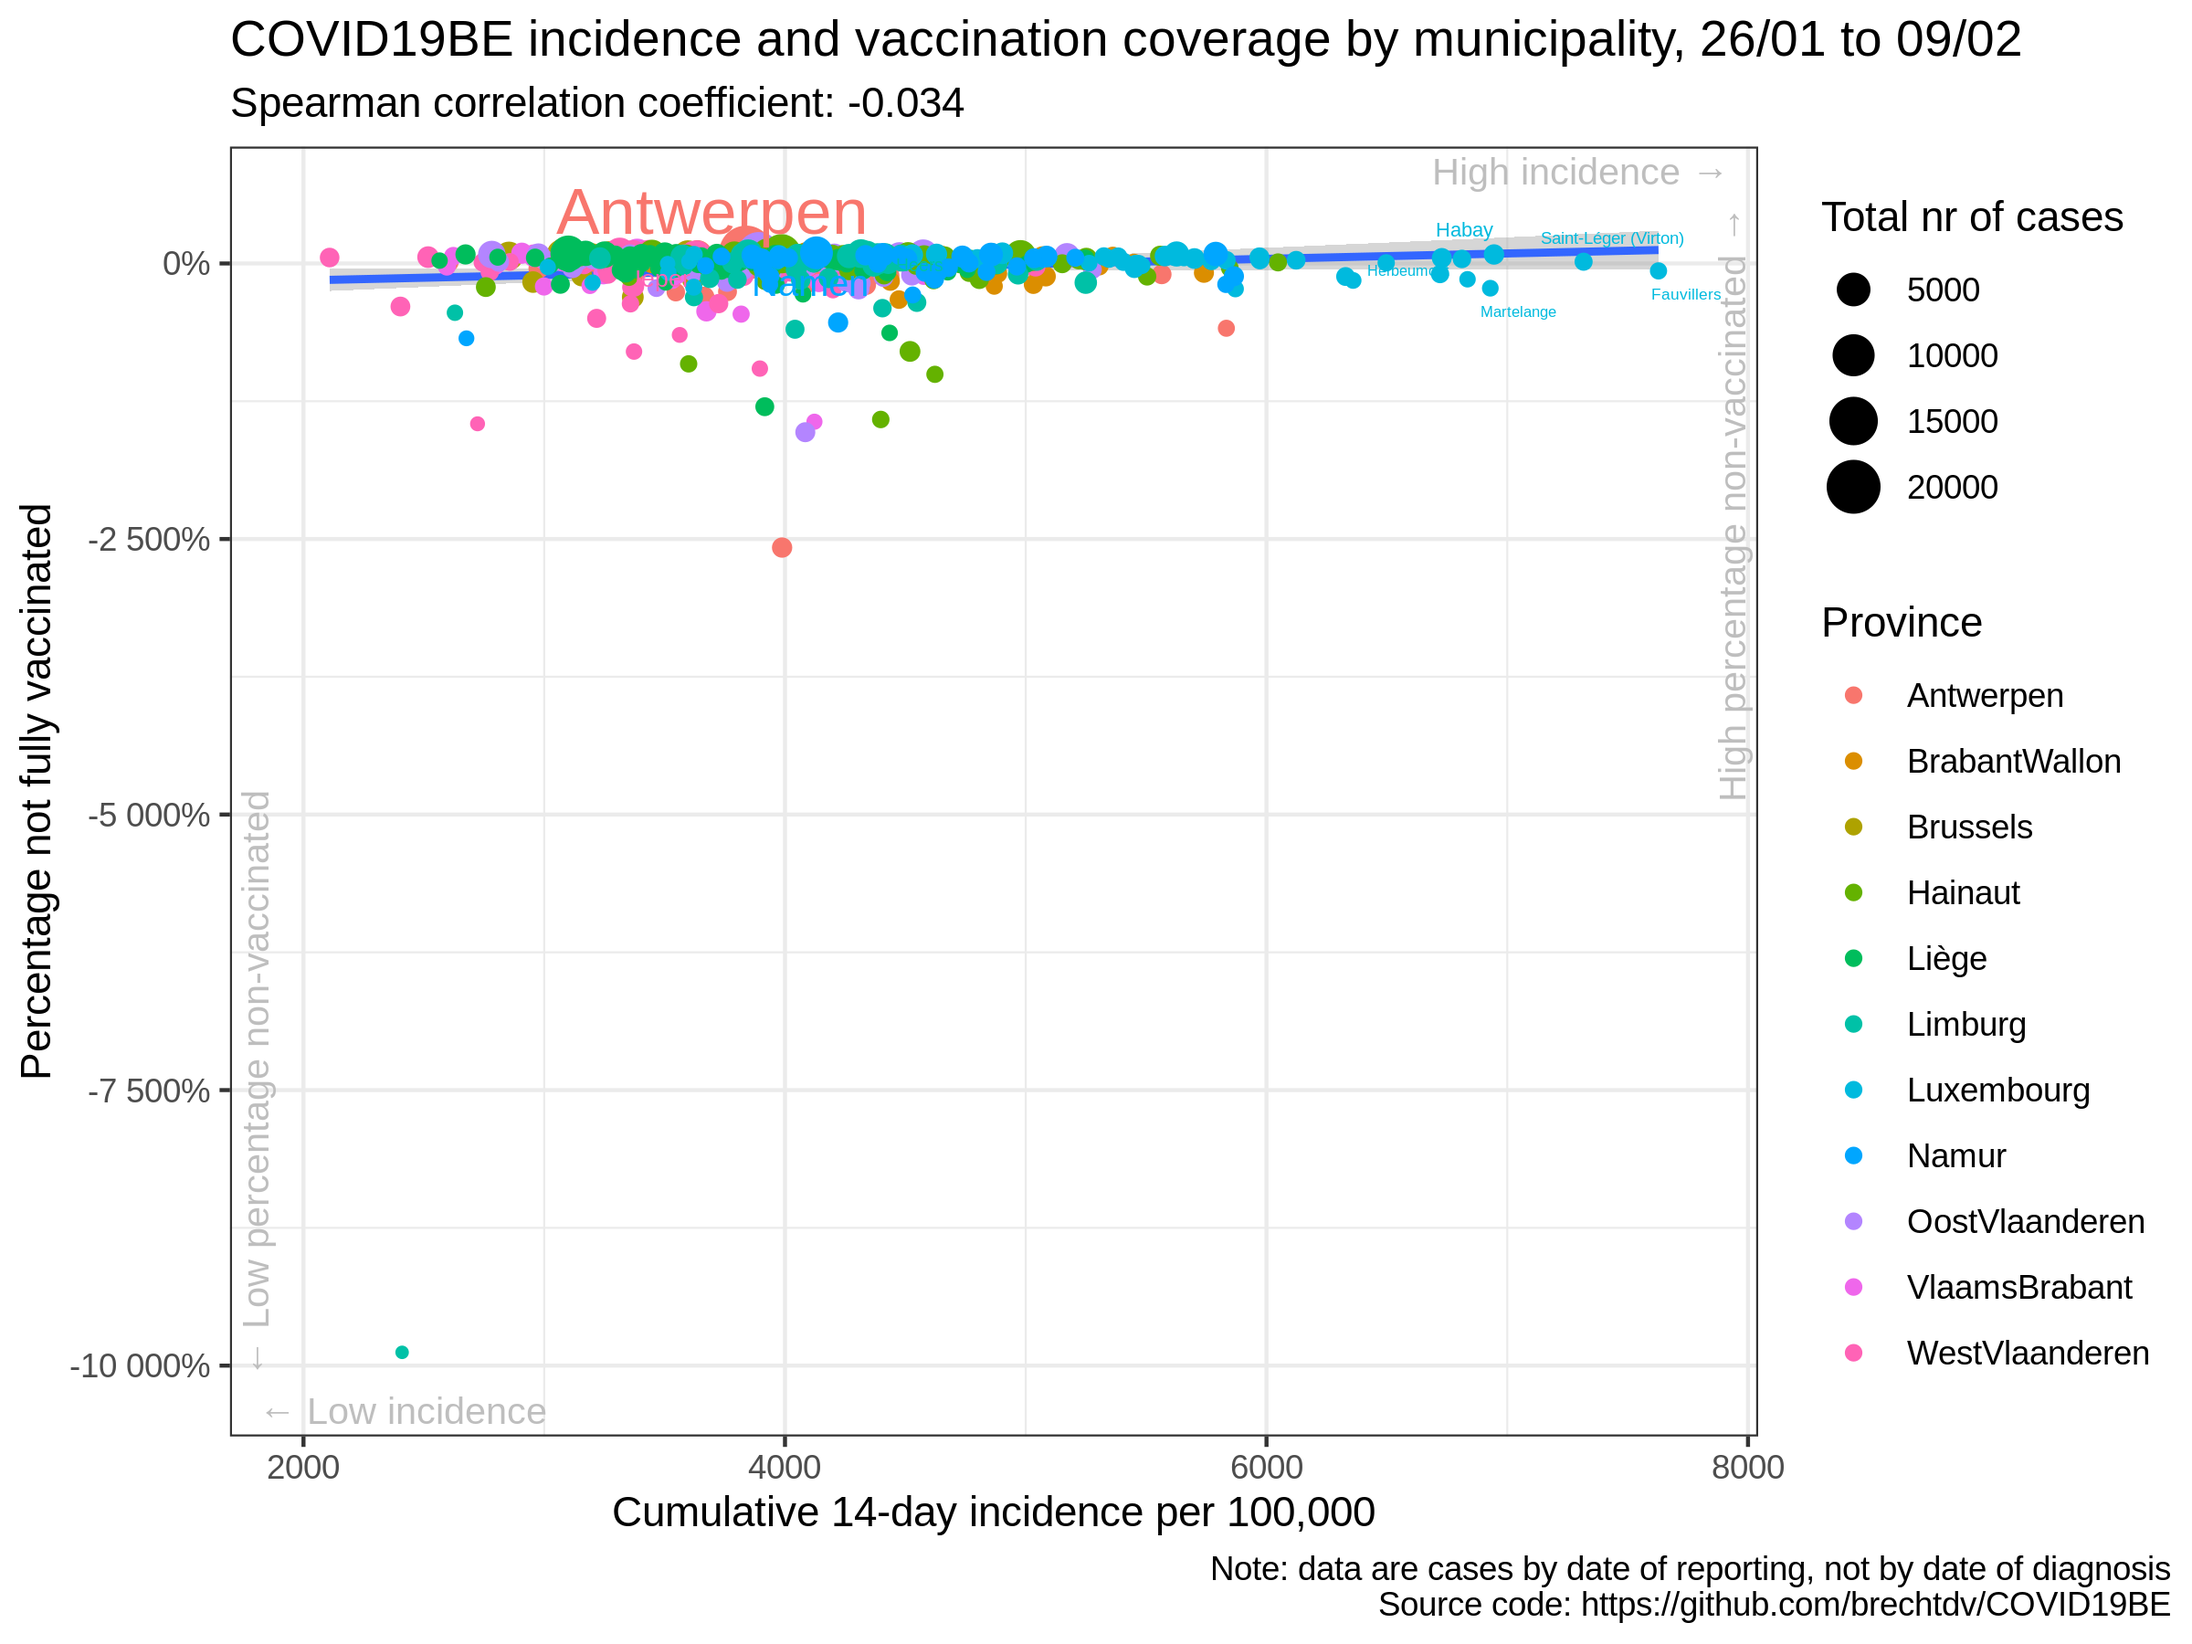
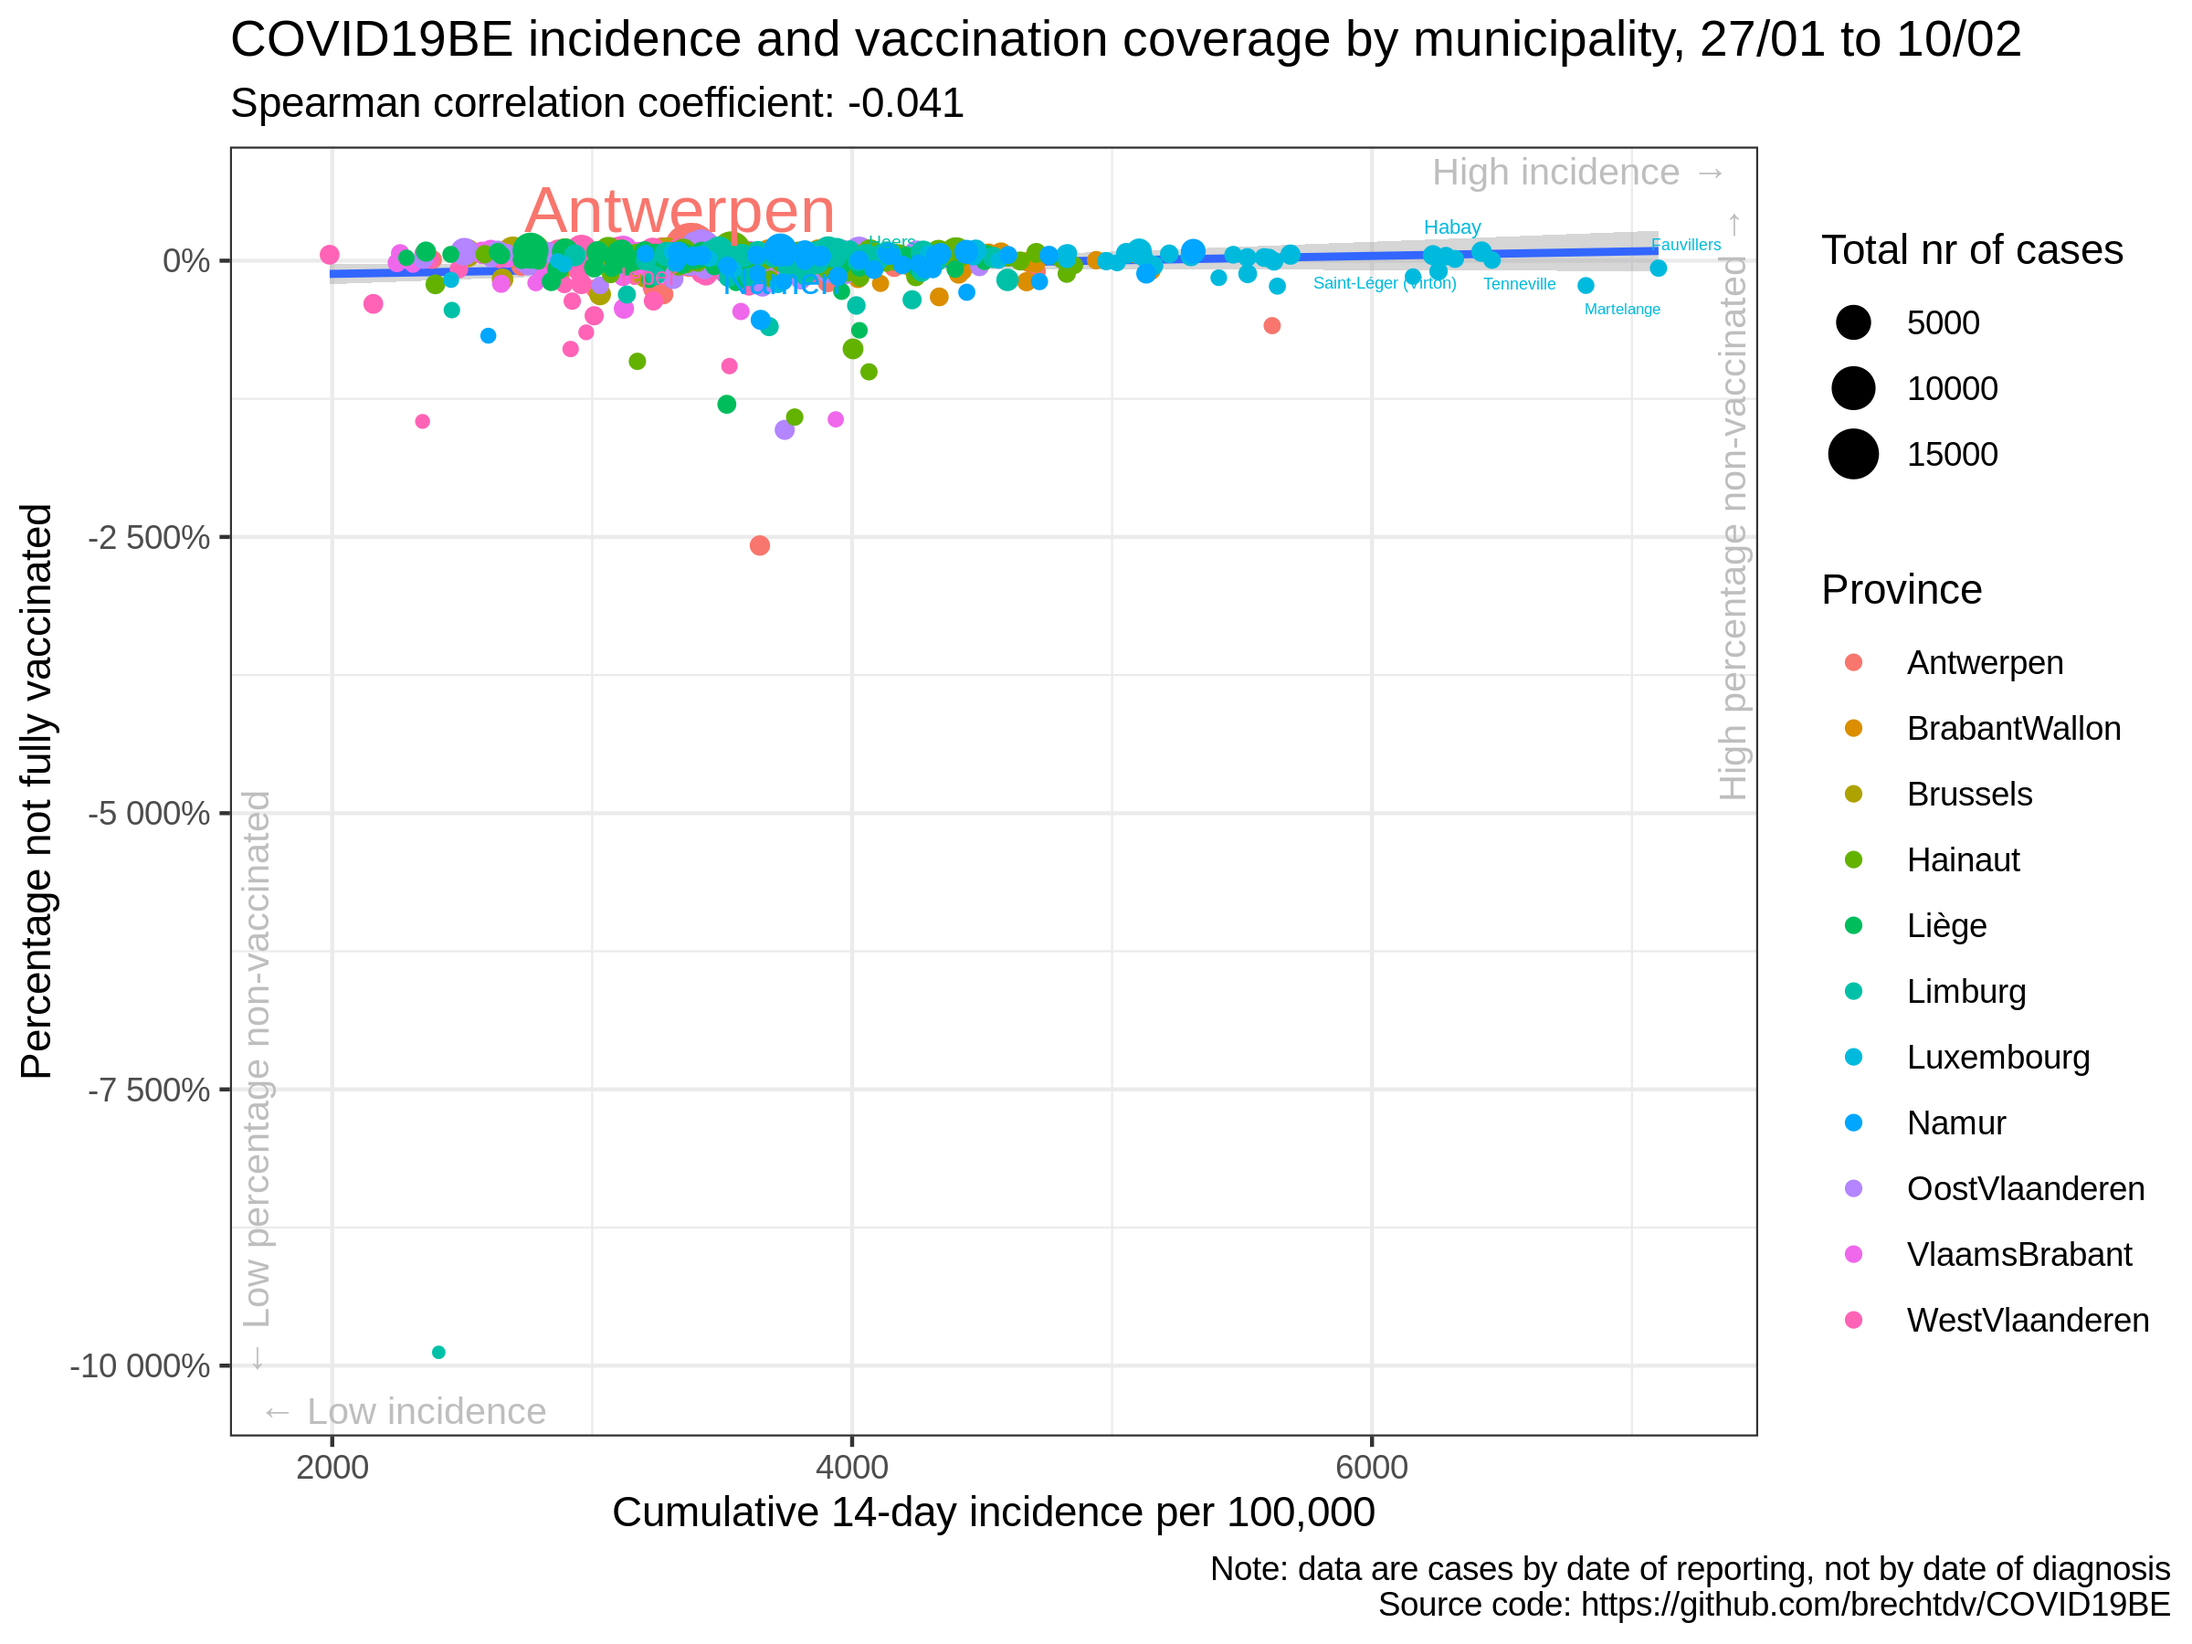
update situation

diff --git a/vaccination/README.md b/vaccination/README.md
@@ -17,35 +17,35 @@
 
 |                | estimate.rho | p.value |
 | :------------- | -----------: | ------: |
-| Antwerpen      |      \-0.089 |   0.466 |
-| BrabantWallon  |      \-0.484 |   0.011 |
-| Brussels       |      \-0.270 |   0.262 |
-| Hainaut        |      \-0.110 |   0.368 |
-| Liège          |      \-0.240 |   0.028 |
-| Limburg        |        0.126 |   0.426 |
-| Luxembourg     |      \-0.170 |   0.270 |
-| Namur          |        0.029 |   0.866 |
-| OostVlaanderen |      \-0.034 |   0.795 |
-| VlaamsBrabant  |      \-0.141 |   0.263 |
-| WestVlaanderen |        0.071 |   0.575 |
-| Belgium        |      \-0.034 |   0.420 |
+| Antwerpen      |      \-0.097 |   0.426 |
+| BrabantWallon  |      \-0.430 |   0.026 |
+| Brussels       |      \-0.223 |   0.358 |
+| Hainaut        |      \-0.068 |   0.578 |
+| Liège          |      \-0.258 |   0.018 |
+| Limburg        |        0.134 |   0.398 |
+| Luxembourg     |      \-0.181 |   0.239 |
+| Namur          |        0.006 |   0.973 |
+| OostVlaanderen |      \-0.020 |   0.878 |
+| VlaamsBrabant  |      \-0.151 |   0.229 |
+| WestVlaanderen |        0.079 |   0.535 |
+| Belgium        |      \-0.041 |   0.326 |
 
 ### Correlation cumulative incidence vs booster rate
 
 |                | estimate.rho | p.value |
 | :------------- | -----------: | ------: |
-| Antwerpen      |      \-0.086 |   0.483 |
-| BrabantWallon  |      \-0.488 |   0.011 |
-| Brussels       |      \-0.296 |   0.217 |
-| Hainaut        |      \-0.105 |   0.388 |
-| Liège          |      \-0.253 |   0.020 |
-| Limburg        |        0.122 |   0.439 |
-| Luxembourg     |      \-0.176 |   0.252 |
-| Namur          |        0.038 |   0.824 |
-| OostVlaanderen |      \-0.030 |   0.819 |
-| VlaamsBrabant  |      \-0.163 |   0.195 |
-| WestVlaanderen |        0.077 |   0.545 |
-| Belgium        |      \-0.021 |   0.610 |
+| Antwerpen      |      \-0.096 |   0.430 |
+| BrabantWallon  |      \-0.433 |   0.025 |
+| Brussels       |      \-0.251 |   0.299 |
+| Hainaut        |      \-0.061 |   0.616 |
+| Liège          |      \-0.263 |   0.016 |
+| Limburg        |        0.128 |   0.417 |
+| Luxembourg     |      \-0.184 |   0.230 |
+| Namur          |        0.016 |   0.925 |
+| OostVlaanderen |      \-0.013 |   0.919 |
+| VlaamsBrabant  |      \-0.180 |   0.151 |
+| WestVlaanderen |        0.084 |   0.509 |
+| Belgium        |      \-0.027 |   0.512 |
 
 ### Data source
 
